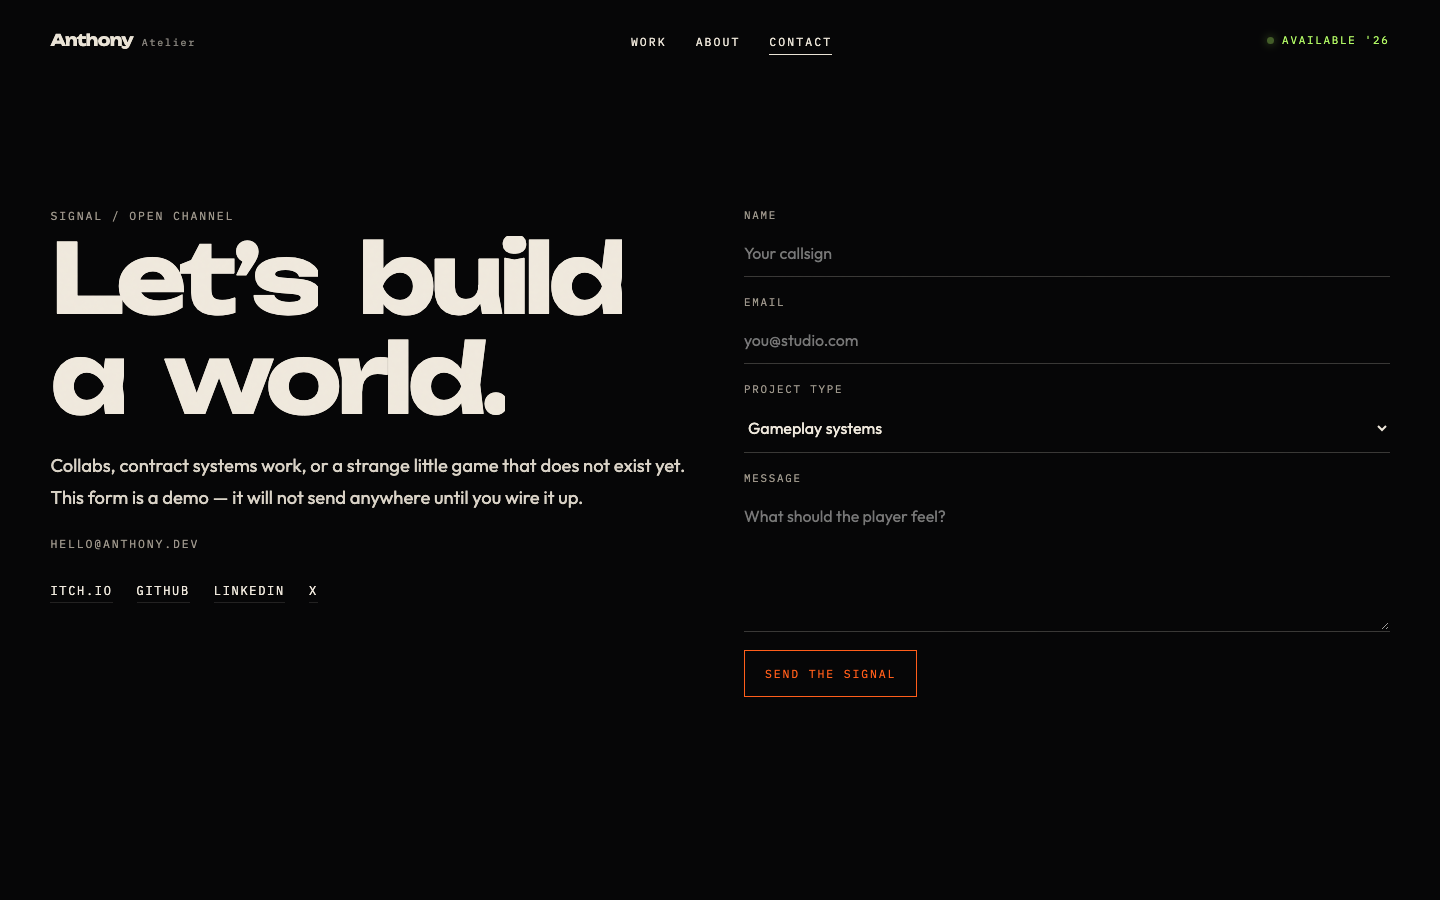
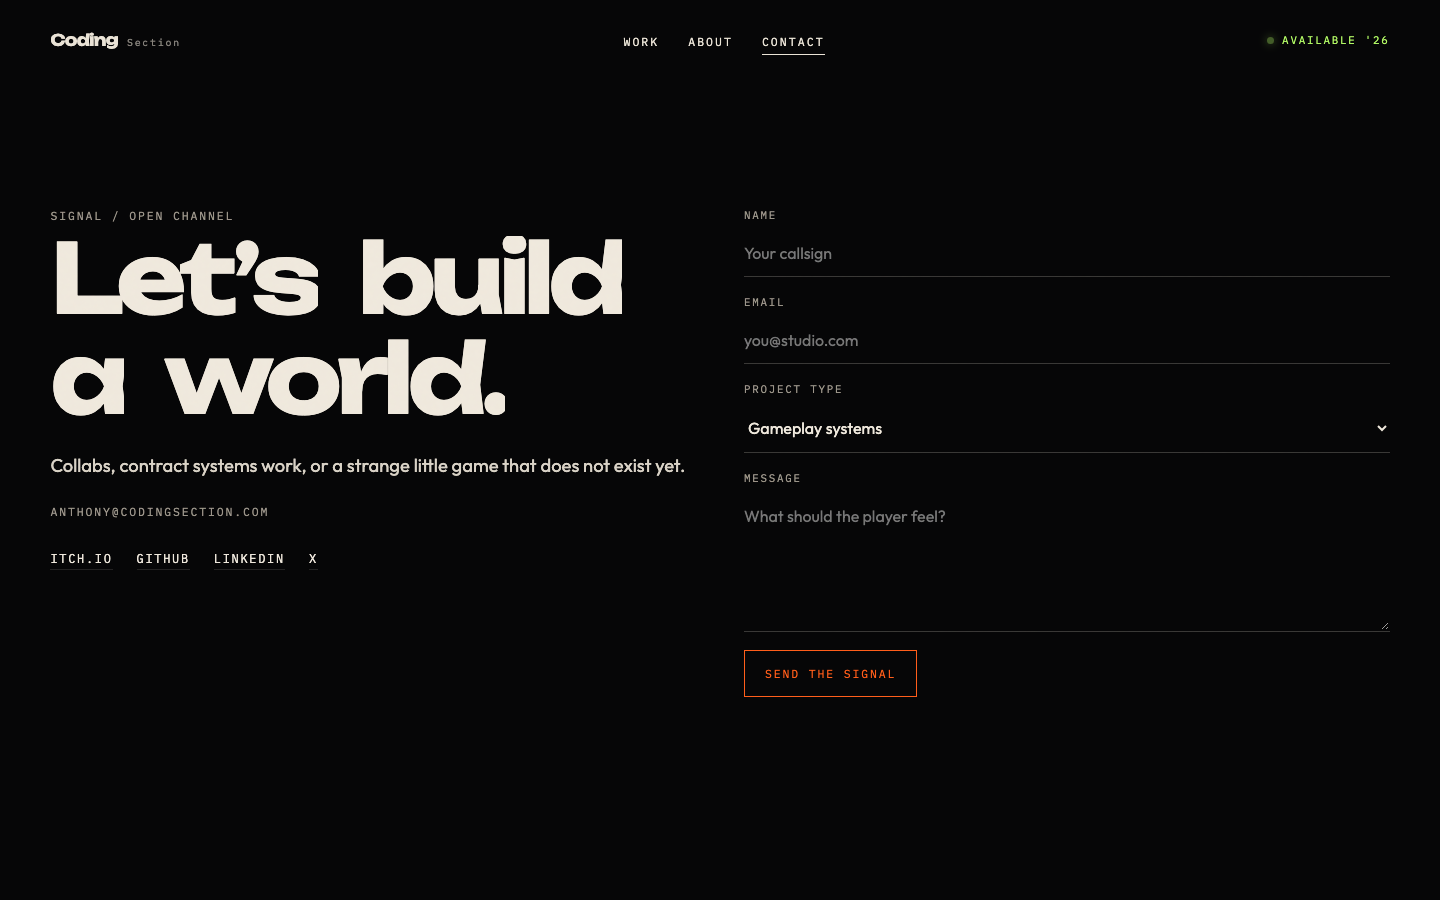
Update README.md to reflect the new project name "Coding Section" and revise the description to include Anthony Ogadimma Aniobi's full name and location. Modify image captions for clarity. Update social media links in site.ts to direct to the correct profiles.

diff --git a/src/data/site.ts b/src/data/site.ts
@@ -9,8 +9,8 @@ export const site = {
   location: 'Lagos, Nigeria',
   availability: "Available '26",
   socials: [
-    { label: 'Itch.io', href: 'https://itch.io' },
-    { label: 'GitHub', href: 'https://github.com' },
+    { label: 'Itch.io', href: 'https://itch.io/profile/codingsection' },
+    { label: 'GitHub', href: 'https://github.com/AnthonyAniobi/' },
     { label: 'LinkedIn', href: 'https://www.linkedin.com' },
     { label: 'X', href: 'https://x.com' },
   ],

diff --git a/README.md b/README.md
@@ -1,12 +1,12 @@
-# Anthony Atelier
+# Coding Section
 
 [![Netlify Status](https://api.netlify.com/api/v1/badges/25ef82a1-5245-4918-930c-8af2aa5249f0/deploy-status)](https://app.netlify.com/projects/codingsection/deploys)
 
-A cinematic portfolio for a game designer and systems programmer. Dark studio chrome, full-screen route transitions, and a small archive of worlds — built to feel like a place, not a résumé.
+A cinematic portfolio for Anthony Ogadimma Aniobi, a game developer in Lagos. Dark studio chrome, full-screen route transitions, and a small archive of worlds.
 
 ## Preview
 
-![Home — Anthony Atelier hero](docs/screenshots/home.png)
+![Home — Coding Section hero](docs/screenshots/home.png)
 
 | Selected work | Project |
 | --- | --- |
@@ -14,7 +14,7 @@ A cinematic portfolio for a game designer and systems programmer. Dark studio ch
 
 | About | Contact |
 | --- | --- |
-| ![About page with portrait and skills](docs/screenshots/about.png) | ![Contact page with the signal form](docs/screenshots/contact.png) |
+| ![About page with profile and skills](docs/screenshots/about.png) | ![Contact page with the signal form](docs/screenshots/contact.png) |
 
 ## Routes
 
